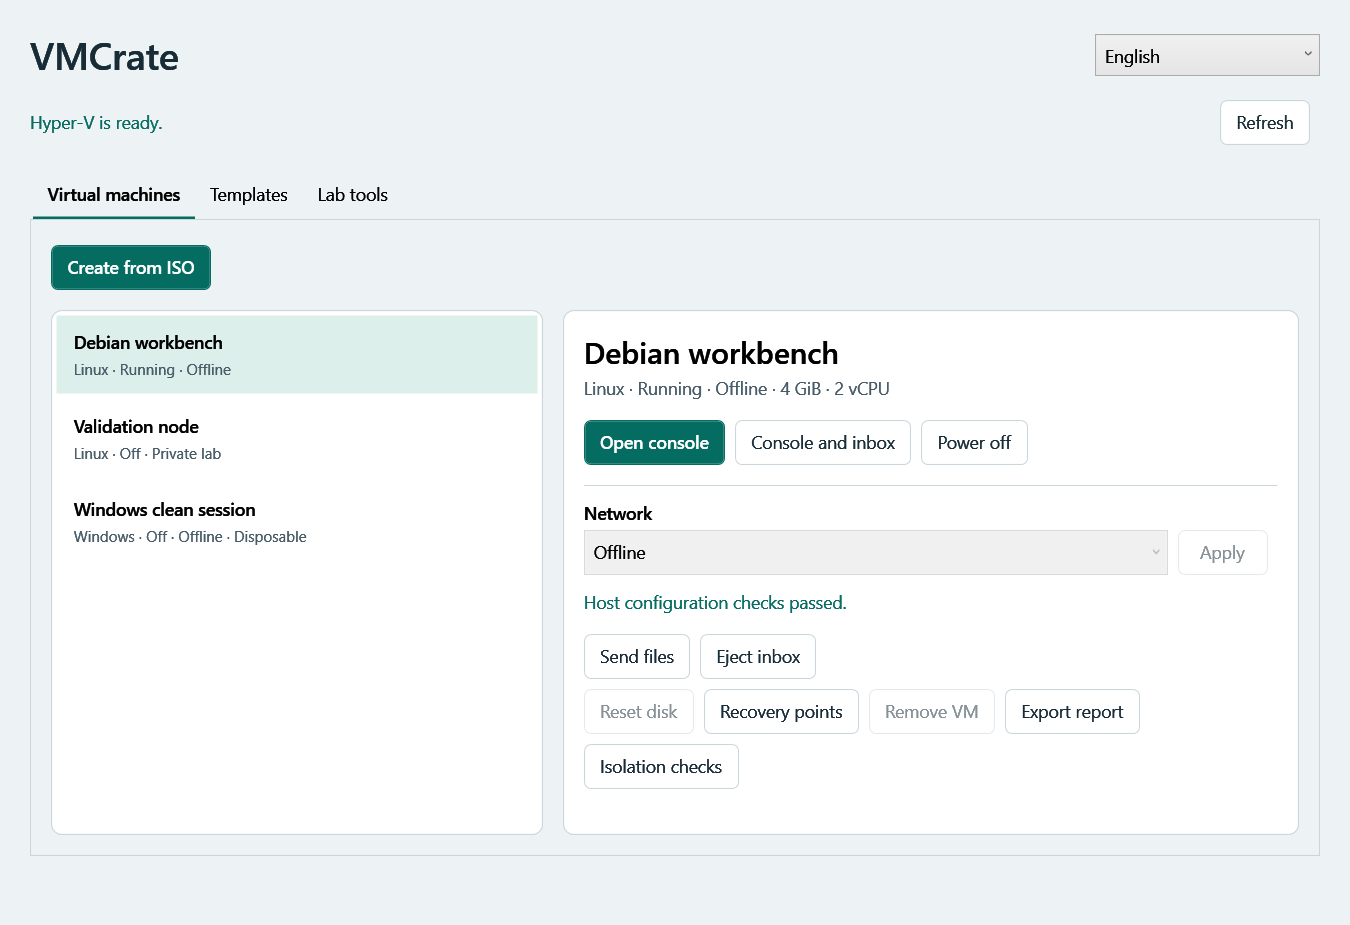
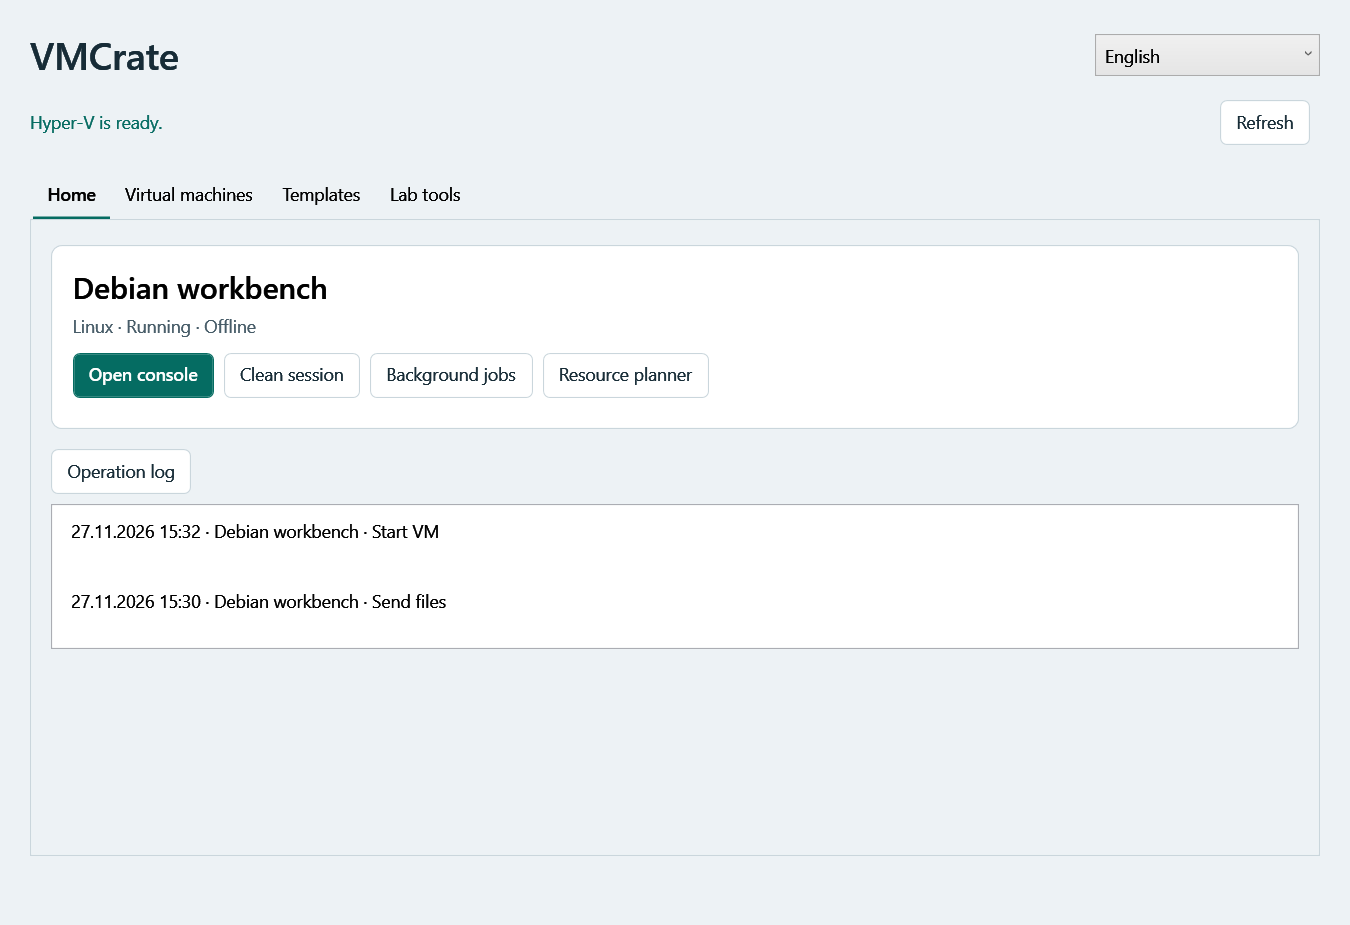
Verify worker recovery from the packaged desktop

diff --git a/src/VMCrate.Desktop/WorkspaceWindow.xaml b/src/VMCrate.Desktop/WorkspaceWindow.xaml
@@ -46,12 +46,11 @@
                   <Button Content="{Binding [tools.session]}" Click="OnCleanSession" />
                   <Button Content="{Binding [jobs.title]}" Click="OnLocalJobs" />
                   <Button Content="{Binding [resources.title]}" Click="OnResourcePlan" />
-                  <Button Content="{Binding [tools.journal]}" Click="OnOperationJournal" />
                   <Button x:Name="ExplainFailure" Content="{Binding [ai.explain]}" Click="OnExplainFailure" />
                 </WrapPanel>
               </StackPanel>
             </Border>
-            <TextBlock Text="{Binding [tools.journal]}" Style="{StaticResource Heading}" Margin="0,0,0,8" />
+            <Button Content="{Binding [tools.journal]}" HorizontalAlignment="Left" Click="OnOperationJournal" />
             <ListBox x:Name="RecentOperations" MaxHeight="184" AutomationProperties.Name="{Binding [tools.journal]}" />
           </StackPanel>
         </ScrollViewer>

diff --git a/src/VMCrate.Desktop/Projects/ReleaseUpdate.cs b/src/VMCrate.Desktop/Projects/ReleaseUpdate.cs
@@ -21,7 +21,8 @@ internal sealed record ReleaseUpdate(Guid Id, string Version, string Sha256, str
         var file = LocalPaths.RequireFile(archive, ".zip");
         var name = Path.GetFileName(file);
         var v = typeof(ReleaseUpdate).Assembly.GetName().Version!;
-        if (!name.StartsWith(prefix, StringComparison.Ordinal) || !name.EndsWith(suffix, StringComparison.Ordinal) ||
+        if (name.Length <= prefix.Length + suffix.Length || !name.StartsWith(prefix, StringComparison.Ordinal) ||
+            !name.EndsWith(suffix, StringComparison.Ordinal) ||
             !System.Version.TryParse(name[prefix.Length..^suffix.Length], out var version) || version.Build < 0 ||
             version.Revision != -1 || name != $"{prefix}{version}{suffix}" || version < new Version(v.Major, v.Minor, v.Build))
             throw new LabException("error.appUpdate");
@@ -38,16 +39,28 @@ internal sealed record ReleaseUpdate(Guid Id, string Version, string Sha256, str
         var directory = WorkspaceSchemaUpdate.DirectoryFor(workspace, candidate.Id);
         LocalPaths.RequireOrdinaryPath(directory);
         Directory.CreateDirectory(directory);
-        var package = Path.Combine(directory, "package");
-        await ExtractAsync(source, package, cancellation);
-        foreach (var required in new[] { "VMCrate.exe", "VMCrate.dll", "runtime/dotnet.exe", "HyperV/Invoke-HyperV.ps1" })
-            LocalPaths.RequireFile(Path.Combine(package, required));
-        var packaged = AssemblyName.GetAssemblyName(Path.Combine(package, "VMCrate.dll")).Version;
-        if (packaged is null || packaged.Major != version.Major || packaged.Minor != version.Minor || packaged.Build != version.Build)
-            throw new LabException("error.appUpdate");
-        await using var output = new FileStream(Path.Combine(directory, "release.json"), FileMode.CreateNew, FileAccess.Write, FileShare.None);
-        await JsonSerializer.SerializeAsync(output, candidate, JsonDefaults.Options, cancellation);
-        output.Flush(flushToDisk: true);
+        try
+        {
+            var package = Path.Combine(directory, "package");
+            await ExtractAsync(source, package, cancellation);
+            foreach (var required in new[] { "VMCrate.exe", "VMCrate.dll", "runtime/dotnet.exe", "HyperV/Invoke-HyperV.ps1" })
+                LocalPaths.RequireFile(Path.Combine(package, required));
+            var packaged = AssemblyName.GetAssemblyName(Path.Combine(package, "VMCrate.dll")).Version;
+            if (packaged is null || packaged.Major != version.Major || packaged.Minor != version.Minor || packaged.Build != version.Build)
+                throw new LabException("error.appUpdate");
+            var temporary = Path.Combine(directory, "release.pending.json");
+            await using (var output = new FileStream(temporary, FileMode.CreateNew, FileAccess.Write, FileShare.None))
+            {
+                await JsonSerializer.SerializeAsync(output, candidate, JsonDefaults.Options, cancellation);
+                output.Flush(flushToDisk: true);
+            }
+            File.Move(temporary, Path.Combine(directory, "release.json"));
+        }
+        catch
+        {
+            WorkspaceSchemaUpdate.DiscardIncomplete(workspace, candidate.Id);
+            throw;
+        }
         return candidate;
     }
 

diff --git a/src/VMCrate.Desktop/WorkspaceOverview.cs b/src/VMCrate.Desktop/WorkspaceOverview.cs
@@ -12,10 +12,30 @@ public partial class WorkspaceWindow
         ResumeDetail.Text = next.Detail;
         ResumeAction.Content = labels[next.Label];
         ExplainFailure.Visibility = FailureFacts().Length > 0 ? Visibility.Visible : Visibility.Collapsed;
-        RecentOperations.ItemsSource = snapshot?.RecentOperations.Take(6).Select(entry =>
-            $"{entry.TimeUtc.ToLocalTime():g} · {entry.Operation}" +
+        var catalog = snapshot;
+        RecentOperations.ItemsSource = catalog?.RecentOperations.Take(6).Select(entry =>
+            $"{entry.TimeUtc.ToLocalTime():g} · {OperationSubject(catalog, entry.Resource)} · {OperationLabel(entry.Operation)}" +
             (entry.Code is null ? "" : $" · {labels[entry.Code]}")).ToArray() ?? [];
     }
+
+    private static string OperationSubject(LabSnapshot state, Guid id) =>
+        state.Machines.FirstOrDefault(vm => vm.Id == id)?.Name ??
+        state.Templates.FirstOrDefault(template => template.Id == id)?.Name ??
+        state.Builds.FirstOrDefault(build => build.Id == id)?.Options.Name ?? id.ToString("N")[..8];
+
+    private string OperationLabel(RecordedOperation operation) => labels[operation switch
+    {
+        RecordedOperation.Prepare => "action.create",
+        RecordedOperation.Start => "action.start",
+        RecordedOperation.PowerOff => "action.powerOff",
+        RecordedOperation.Inbox => "action.send",
+        RecordedOperation.EjectInbox => "action.ejectInbox",
+        RecordedOperation.Reset => "action.reset",
+        RecordedOperation.Remove => "action.removeVm",
+        RecordedOperation.Build => "tools.builds",
+        RecordedOperation.VerifyRevision => "revision.verify",
+        _ => "tools.proxyTrace"
+    }];
 
     private AssistantFact[] FailureFacts()
     {

diff --git a/src/VMCrate.Core/Operations/LocalJobWorker.cs b/src/VMCrate.Core/Operations/LocalJobWorker.cs
@@ -8,23 +8,17 @@ public sealed class LocalJobWorker(LabService lab, OfficialImages images, Func<T
 
     public async Task RunAsync(CancellationToken cancellation = default)
     {
-        using var ownership = queue.TryOwnWorker();
-        if (ownership is null)
-            return;
-        queue.Recover();
-        for (var idle = 0; idle < 4 && !cancellation.IsCancellationRequested;)
+        do
         {
-            if (queue.Claim() is { } job)
-            {
+            using var ownership = queue.TryOwnWorker();
+            if (ownership is null)
+                return;
+            queue.Recover();
+            while (!cancellation.IsCancellationRequested && queue.Claim() is { } job)
                 await RunJobAsync(job, cancellation);
-                idle = 0;
-            }
-            else
-            {
-                idle++;
-                await Task.Delay(750, cancellation);
-            }
         }
+        // An enqueue racing with worker exit may see the old owner. Recheck after releasing it.
+        while (!cancellation.IsCancellationRequested && queue.Read().Any(job => job.Status == LocalJobStatus.Queued));
     }
 
     private async Task RunJobAsync(LocalJob job, CancellationToken cancellation)

diff --git a/src/VMCrate.Core/Operations/LocalJobQueue.cs b/src/VMCrate.Core/Operations/LocalJobQueue.cs
@@ -15,7 +15,7 @@ public sealed class LocalJobQueue(string workspace)
         var existing = items.FirstOrDefault(item => item.Request == request && item.Status is LocalJobStatus.Queued or LocalJobStatus.Running);
         if (existing is not null)
             return existing;
-        var completed = items.Where(item => item.Status is LocalJobStatus.Succeeded or LocalJobStatus.Cancelled)
+        var completed = items.Where(item => item.Status is LocalJobStatus.Succeeded or LocalJobStatus.Failed or LocalJobStatus.Cancelled)
             .OrderByDescending(item => item.UpdatedUtc).Skip(79).Select(item => item.Id).ToHashSet();
         items.RemoveAll(item => completed.Contains(item.Id));
         if (items.Count >= 256)

diff --git a/src/VMCrate.Core/WorkspaceSchemaUpdate.cs b/src/VMCrate.Core/WorkspaceSchemaUpdate.cs
@@ -11,6 +11,14 @@ public static class WorkspaceSchemaUpdate
 
     public static void Prepare(string workspace, Guid id) => new StateStore(workspace).PrepareUpdate(id);
     public static void Rollback(string workspace, Guid id) => new StateStore(workspace).RollbackUpdate(id);
+
+    public static void DiscardIncomplete(string workspace, Guid id)
+    {
+        var directory = DirectoryFor(workspace, id);
+        LocalPaths.RequireOrdinaryPath(directory);
+        if (!File.Exists(Path.Combine(directory, "release.json")) && !File.Exists(Path.Combine(directory, "schema.json")))
+            LocalPaths.RemoveDirectory(Path.GetDirectoryName(directory)!, id);
+    }
 }
 
 internal sealed partial class StateStore

diff --git a/README.md b/README.md
@@ -9,9 +9,9 @@
 
 [Download](https://github.com/poikilometis/VMCrate/releases) · [Quick start](#quick-start) · [Features](#features) · [Documentation](#documentation) · [Contributing](CONTRIBUTING.md)
 
-![VMCrate workspace with an Offline Debian VM and a private lab node](docs/images/workspace.png)
+![VMCrate Home showing a running Offline Debian VM and recent operations](docs/images/workspace.png)
 
-*VMCrate with example virtual machines.*
+*VMCrate Home with example activity from an Offline VM.*
 
 ## Features
 
